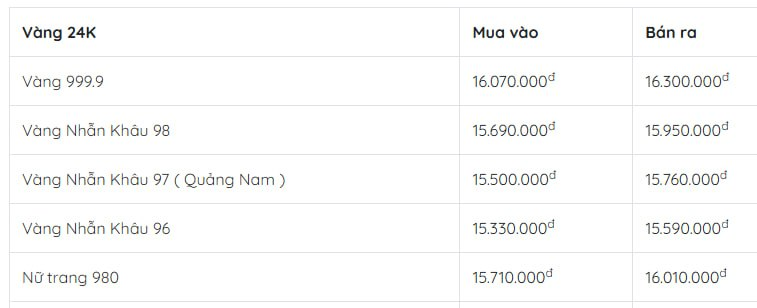
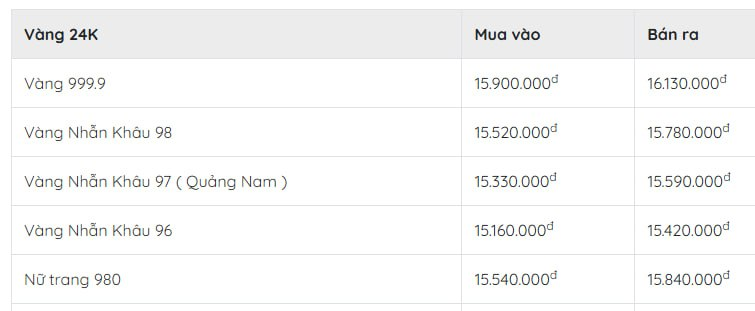
Update kim-khanh-viet-hung price image (10:44)

diff --git a/app/data/goldShops.ts b/app/data/goldShops.ts
@@ -26,7 +26,7 @@ export const GOLD_SHOPS: GoldShop[] = [
     name: "Kim Khánh Việt Hùng",
     location: "Đà Nẵng",
     image: "images/kim-khanh-viet-hung.jpg",
-    updatedAt: "09:56",
+    updatedAt: "10:44",
   },
   {
     id: "tru-cam-le",
